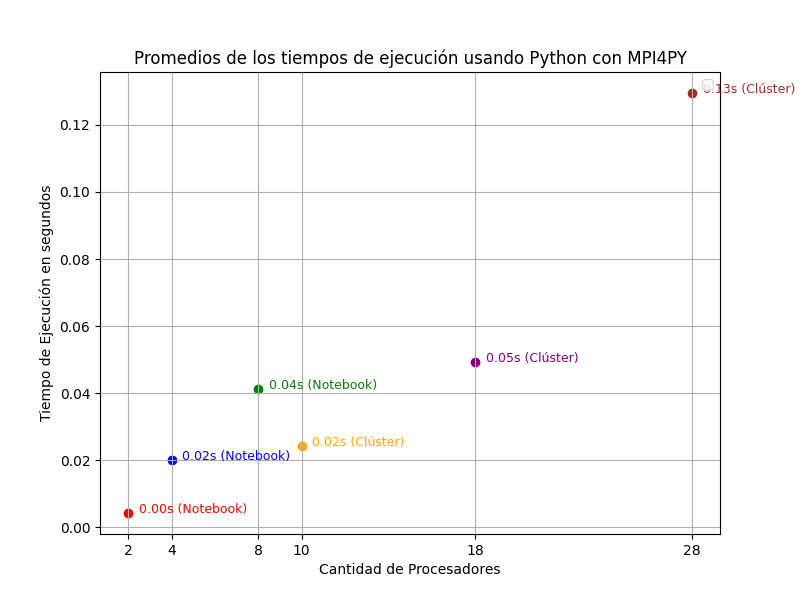
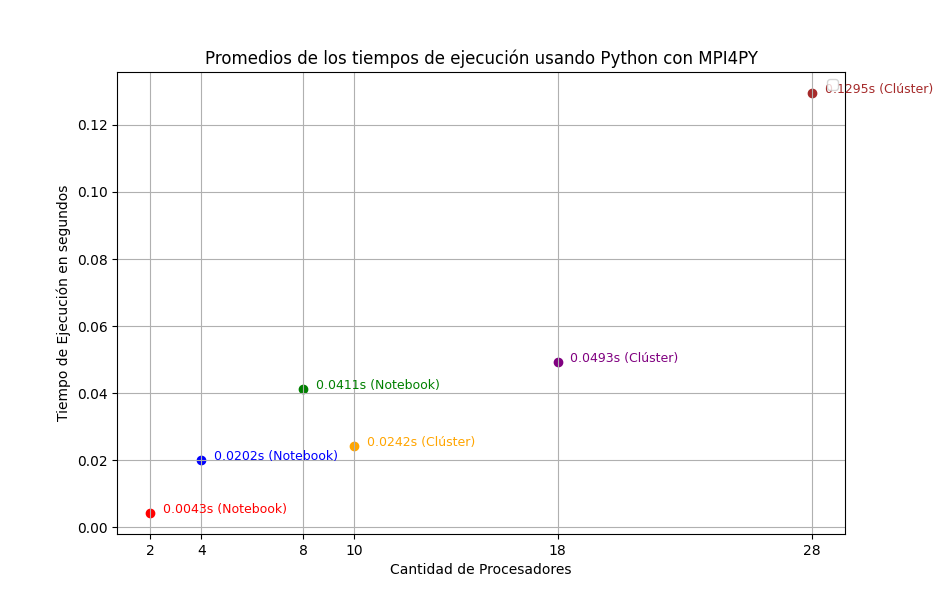
fix

diff --git a/Producto Escalar 25200/graficar_tiempos_python.py b/Producto Escalar 25200/graficar_tiempos_python.py
@@ -86,9 +86,9 @@ for i, avg in enumerate(promedios):
     plt.scatter(N_Proc[i], avg, color=colors[i])
     # Agregar el texto al lado del punto
     if i < 3:  # Para los primeros 3 elementos
-        texto = f'{avg:.2f}s (Notebook)'
+        texto = f'{avg:.4f}s (Notebook)'
     else:      # Para los últimos 3 elementos
-        texto = f'{avg:.2f}s (Clúster)'
+        texto = f'{avg:.4f}s (Clúster)'
     plt.text(N_Proc[i] + 0.5, avg, texto, fontsize=9, color=colors[i])
 
 # Configurar la gráfica
